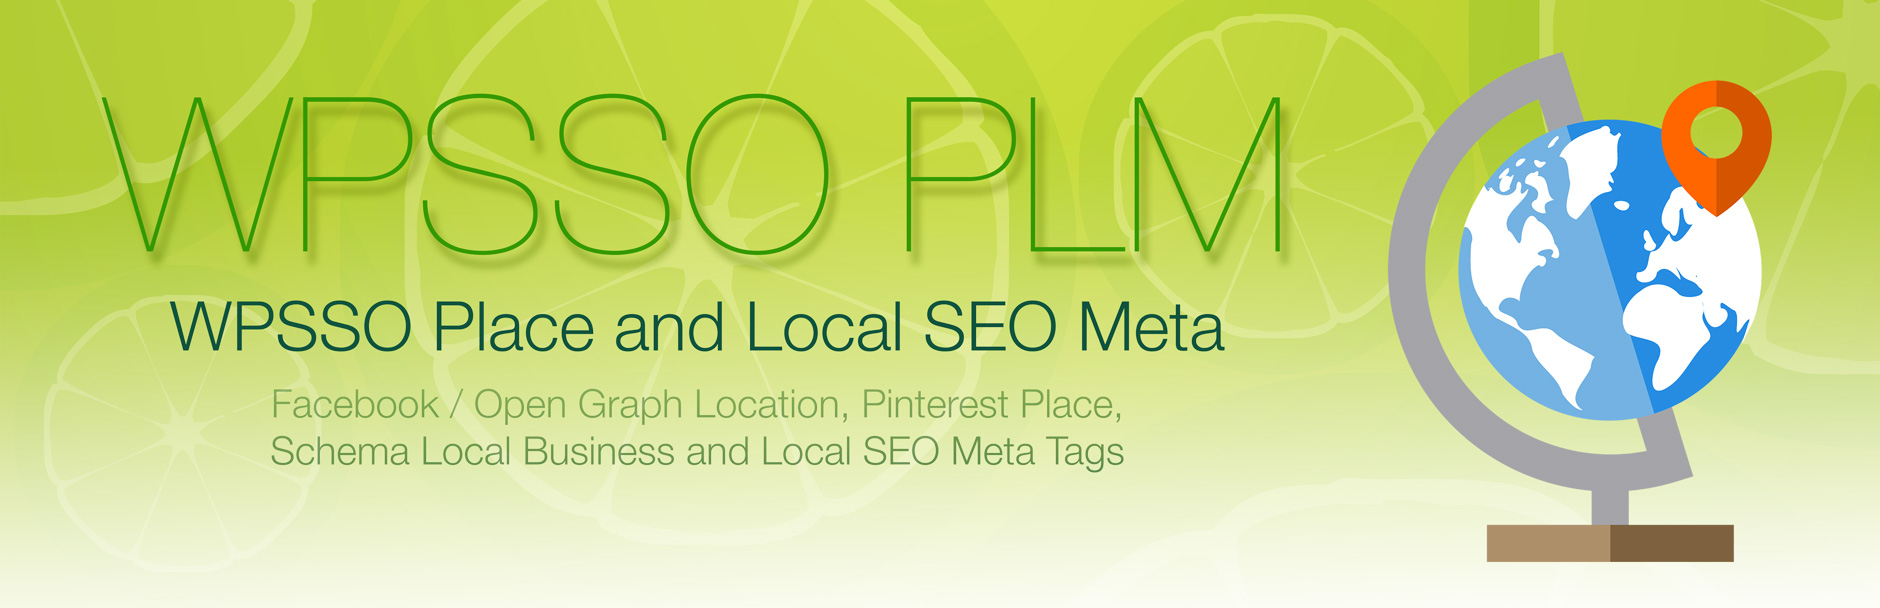
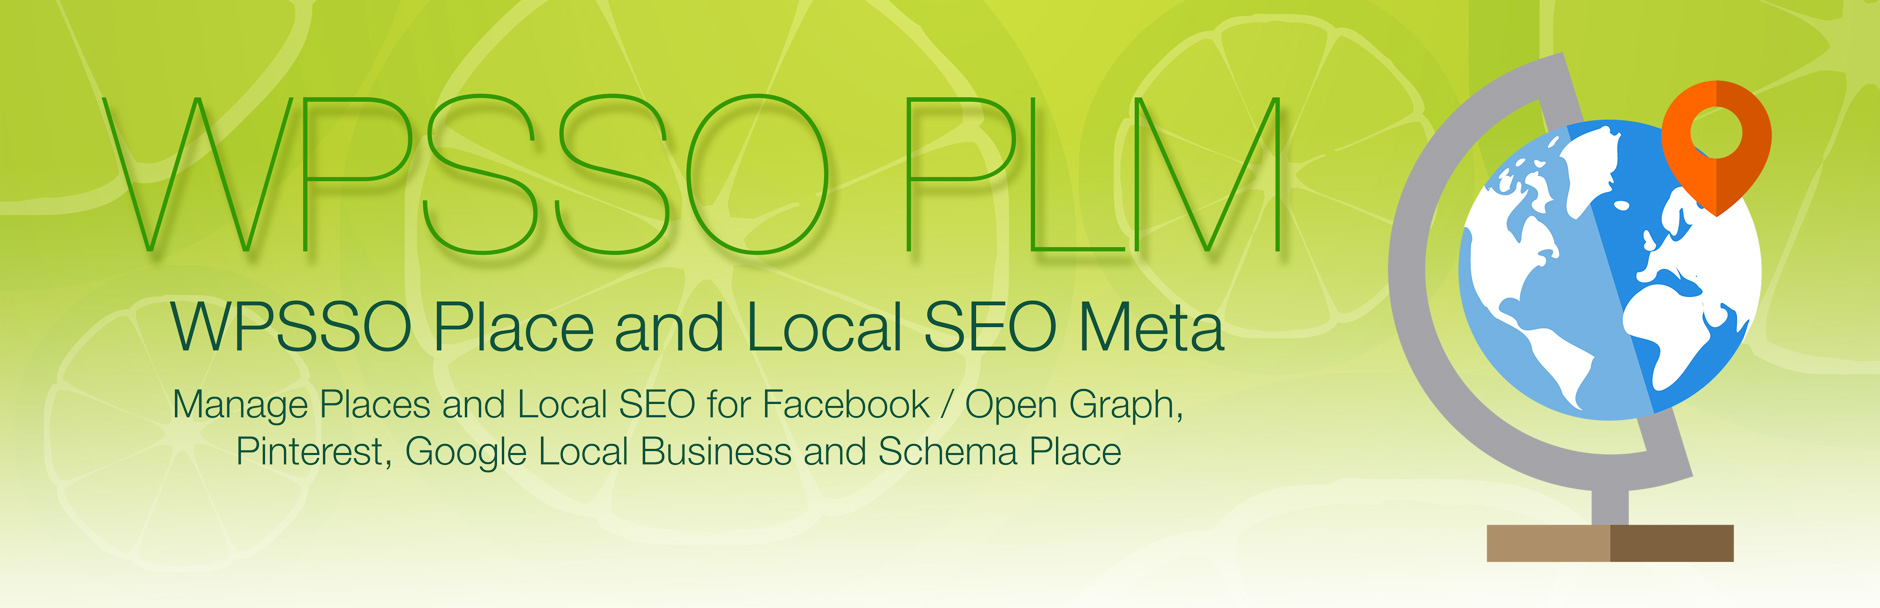
non-essential support files (documentation and assets)

Changed region(s): [[0.0926, 0.625, 0.617, 0.6875], [0.1234, 0.7188, 0.617, 0.7812]]

diff --git a/index.html b/index.html
@@ -29,7 +29,7 @@
 
 <table>
 <tr><th align="right" valign="top" nowrap>Plugin Name</th><td>WPSSO Place and Local SEO Markup</td></tr>
-<tr><th align="right" valign="top" nowrap>Summary</th><td>Manage Places and Local SEO for Facebook / Open Graph, Pinterest, Google Local Business and Schema Place Markup.</td></tr>
+<tr><th align="right" valign="top" nowrap>Summary</th><td>Manage Places and Local SEO for Facebook / Open Graph, Pinterest, Google Local Business and Schema Place.</td></tr>
 <tr><th align="right" valign="top" nowrap>Stable Version</th><td>4.8.0</td></tr>
 <tr><th align="right" valign="top" nowrap>Requires PHP</th><td>5.6 or newer</td></tr>
 <tr><th align="right" valign="top" nowrap>Requires WordPress</th><td>4.0 or newer</td></tr>
